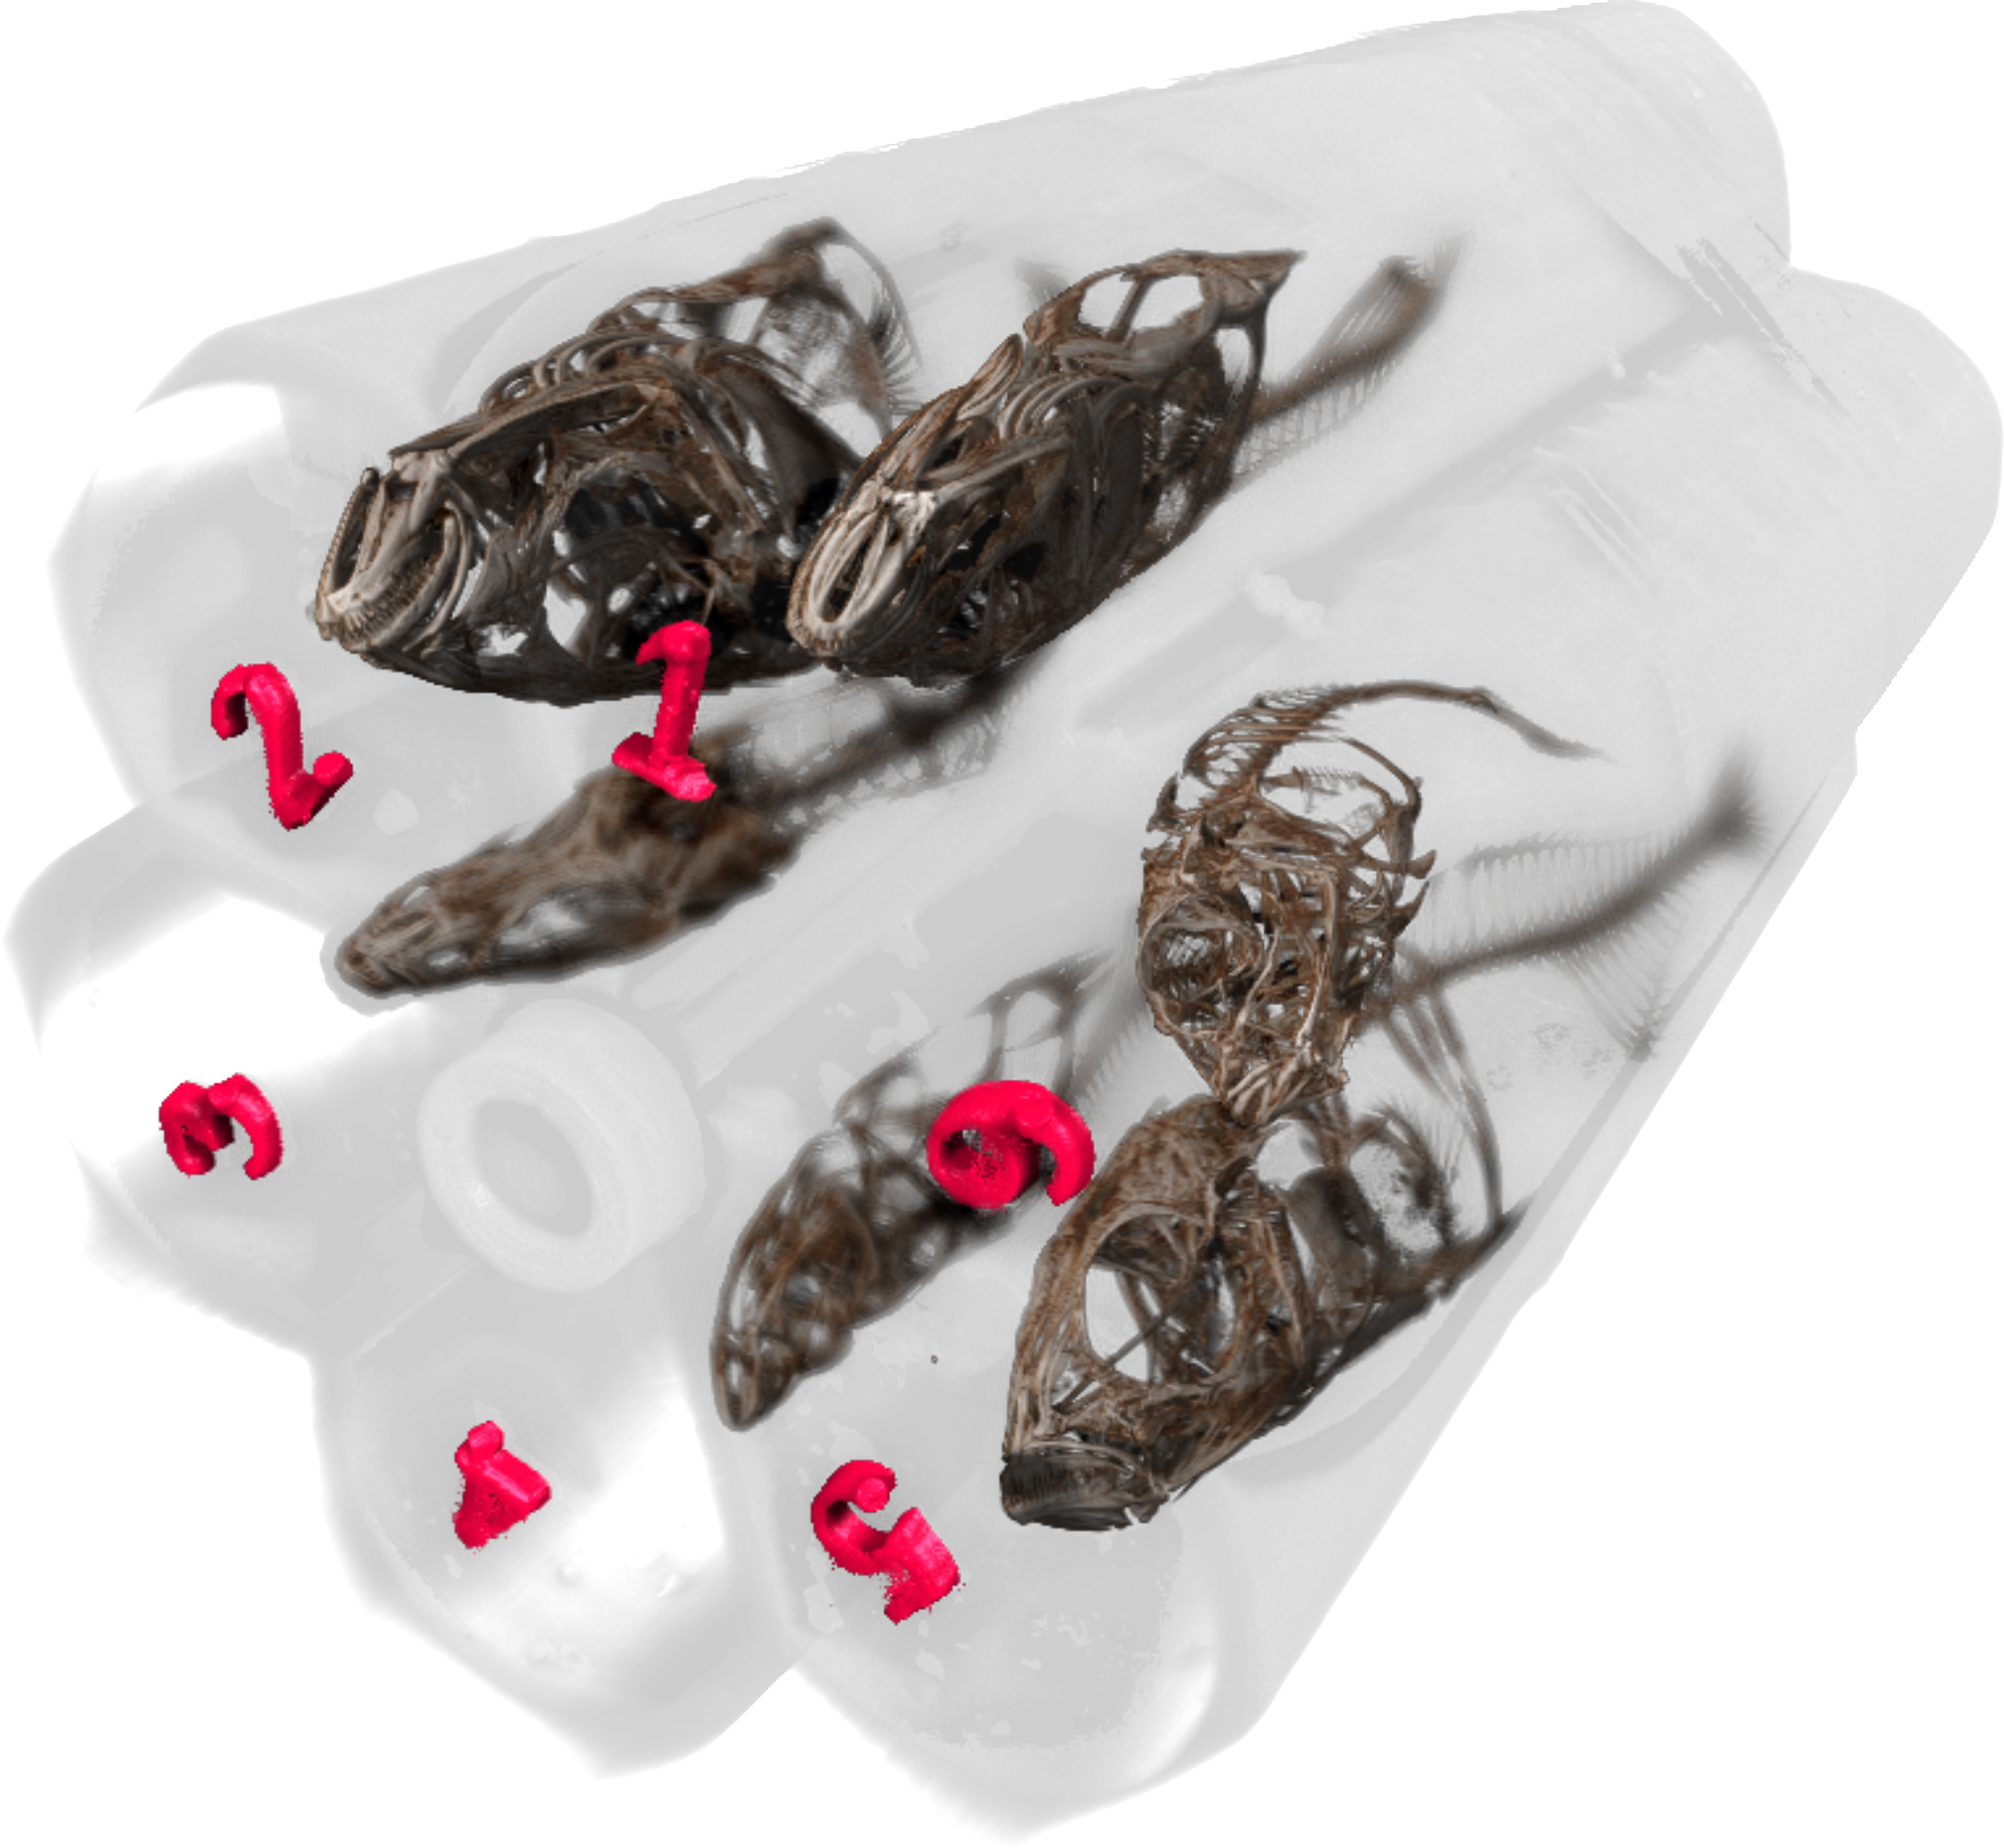
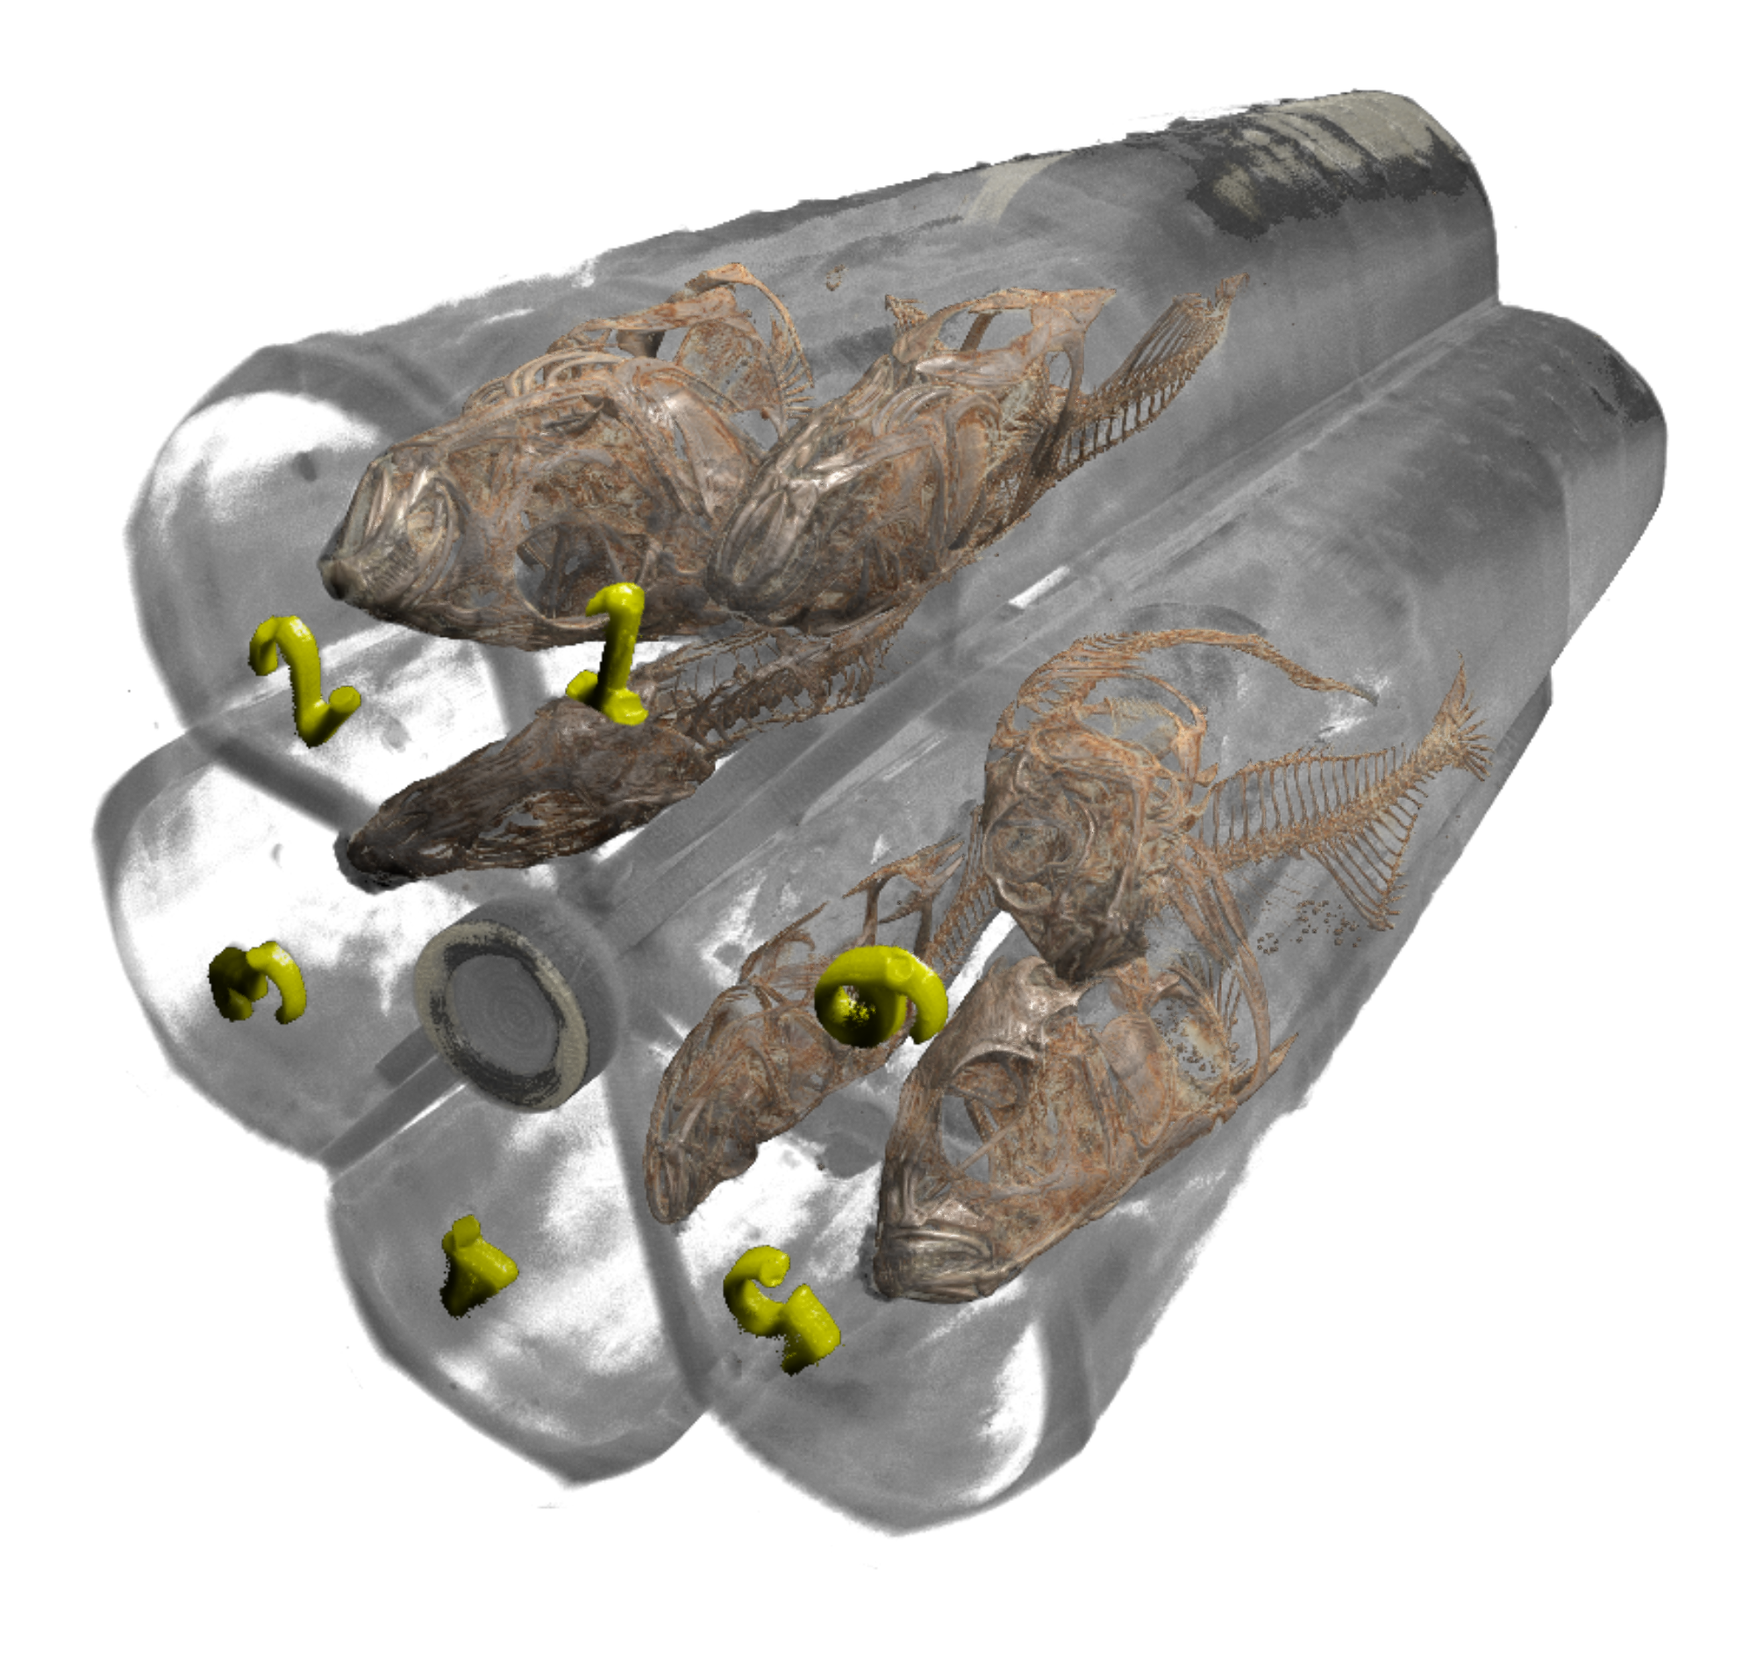
It's not "extracted", but "highlighted"
Reviewer 1 noted that the labels are not really extracted.
They are highlighted only.
We explain this now (hopefully a bit better) in the text.
Aditionally, we're rendering the labels in the Dragonfly image in yellow now, too.
This was only an artistic choice and not really "necessary" to be a different color than yellow...
The image is straight from Dragonfly, we've simply made a secondary copy
of the dataset to show it once with adapted LUT for the fish and once
with adapted LUT for the holder.

diff --git a/content/03.materials_methods.md b/content/03.materials_methods.md
@@ -35,10 +35,11 @@ The projection images were subsequently reconstructed into stacks of 8-bit `png`
 The isotropic voxel sizes in the resulting datasets vary from 15 to 17.5 µm.
 
 The result of one such multispecimen scan is visualized in Figure @fig:visualization, which shows the six fish contained in this scan.
-The labels on the holder are colored red and are shown extracted (in yellow) later in Figure @fig:labels.
+The 3D-printed labels on the holder are highlighted in yellow in Figures @fig:visualization and @fig:labels--@fig:cropping (image processing in notebooks), and visible (upside down) in Figure @fig:SLX23012_3D.
 
 ![Three-dimensional visualization of one multispecimen scan.
-  The 3D-printed labels are colored in red; the holder itself is shown semitransparently, containing six specimens for this scan.](images/Sticklebucket_H.rec.3D.png){#fig:visualization}
+  The 3D-printed labels are highlighted in yellow; the holder itself is shown semitransparently, containing six specimens for this scan.
+  Visualization created with Dragonfly 3D World (Version 2025.1.0.14177, Comet Technologies Canada Inc, Montreal, Canada).](images/Sticklebucket_H.rec.3D.png){#fig:visualization}
 
 ### Data Analysis
 
@@ -61,13 +62,14 @@ This approach allowed us to map *all* the reconstructions to memory and quickly 
 The [separation notebook](https://nbviewer.org/github/habi/sticklebacks/blob/main/BucketSeparator.ipynb) processes all the acquired scans to extract each individual fish from each scan that encompasses six fish in total.
 As in the preview notebook, we efficiently load all the `png`s from disk with [`dask`](https://www.dask.org/) [@dask].
 
-A connected region labeling of the previously extracted MIP images ([`skimage.measure.label`](https://scikit-image.org/docs/stable/api/skimage.measure.html#skimage.measure.label)) was used to highlight the labels in the custom-made sample holder (colored in red in Figure @fig:visualization and highlighted in yellow in the left panel of Figure @fig:labels) and to label the single fish in their compartements.
+A connected region labeling of the previously extracted MIP images ([`skimage.measure.label`](https://scikit-image.org/docs/stable/api/skimage.measure.html#skimage.measure.label)) was used to highlight the labels in the custom-made sample holder (highlighted in yellow in the left panel of Figure @fig:labels) and to label the single fish in their compartements.
 The centroid positions and extent of individual fish in the scan ([`skimage.measure.regionprops`](https://scikit-image.org/docs/stable/api/skimage.measure.html#skimage.measure.regionprops)) (see right panel of Figure @fig:labels) were used to extract small cropped regions from the large multi-specimen dataset.
 This extraction process is fully reproducible and is tailored to the arrangement of the samples in the custom sample holder.
 
 ![Automatically detected regions based on maximum intensity projection along the rotation axis of the tomographic scan.
-  The regions are numbered consecutively from the top left to the bottom right.
-  These numbers are assigned to the correct fish ID in the next step.](images/Sticklebucket_H.rec.Labels.Detected.png){#fig:labels}
+  The left panel shows the highlighted compartement labels as they have been 3D printed.
+  The right panels shows the regions as detected by `skimage`, they are numbered consecutively from top left to bottom right.
+  Detected label numbes are mapped to the correct fish ID in the next step.](images/Sticklebucket_H.rec.Labels.Detected.png){#fig:labels}
 
 We then mapped the labels of the detected regions to the ID numbers of the scanned fish and presented these images together with photos of the lab book and sample tubes for verification (see Figure @fig:checking).
 
@@ -95,7 +97,7 @@ One such interactive preview is [available online](https://htmlpreview.github.io
 
 ![Three-dimensional visualization of one extracted region.
   Extracted region (label 1 visible upside-down on the left) at the bottom, automatically thresholded region (threshold value: 50) on top.
-  Visualization created in Dragonfly 3D World (Version 2025.1.0.14177, Comet Technologies Canada Inc, Montreal, Canada).](images/SL.X23.012.3D.png){#fig:SLX23012_3D}
+  Visualization created with `napari` (Version 0.6.1, [@doi:10.5281/zenodo.3555620]).](images/SL.X23.012.3D.png){#fig:SLX23012_3D}
 
 #### Extraction of Features of Interest
 

diff --git a/submission/02_revision01/answer.md b/submission/02_revision01/answer.md
@@ -64,7 +64,13 @@ The merging does correct for minute differences in rotation and usually works ab
 
 > Line 129: I don’t understand what you mean by “shown extracted”.
 
->Line 130: I assume it should be “Figure 4” not just “4”.
+As a non-native English writer we've chosen the wrong word here.
+The labels are "extracted" from the MIP by image processing and shown as (yellow) highlights over the image to enable quality assurance.
+We reformulated the sentence and specified where the labels are shown/highlighted.
+This also lead to a change in the 3D visualization, as the red labels there were simply an "artistic" choice; the labels are now also yellow in that figure.
+So the labels are now highlighted in yellow in the Dragonfly visualization, highlighted yellow by our script and simply visible in the napari visualization of the extracted region.
+
+> Line 130: I assume it should be “Figure 4” not just “4”.
 
 Fixed in https://github.com/habi/sticklebacks-manuscript/commit/a11b1d6674a7956df60d6bd66f4d4eec1dc0f9ca
 
